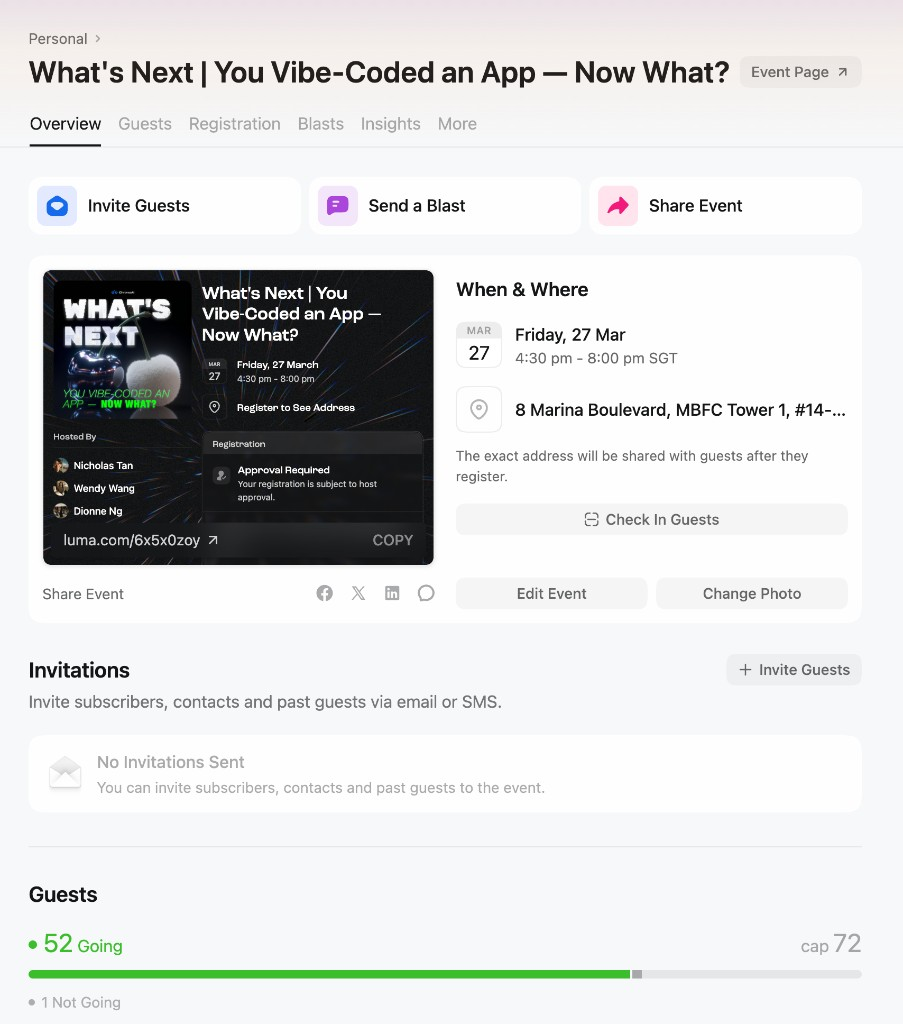
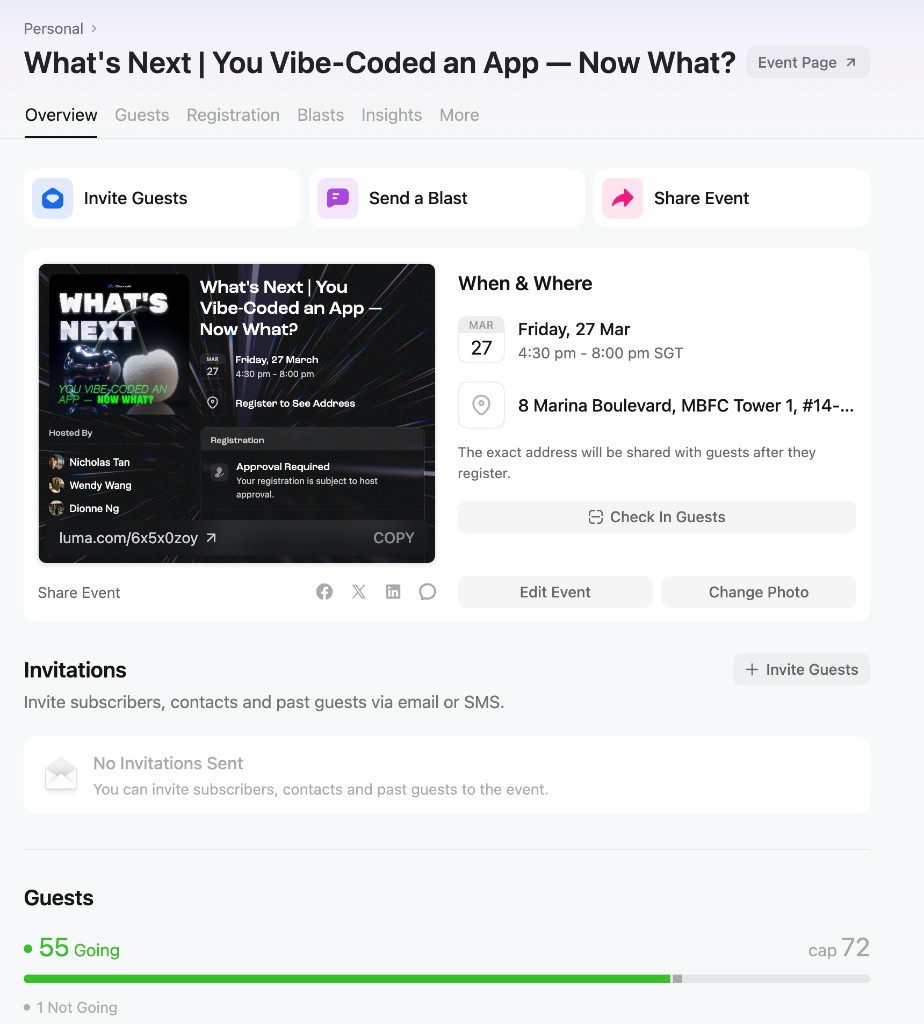
Update Lu.ma screenshot to 55 RSVPs, push to correct repo
Made-with: Cursor

diff --git a/index.html b/index.html
@@ -297,7 +297,7 @@ h3{font-size:clamp(14px,1.5vw,18px);font-weight:700;line-height:1.3;margin-botto
   <div class="pnum">03 / 05</div>
   <div class="inner">
     <div class="fi d1">
-      <div class="badge gold" data-i18n="b3" data-en="52 Registered · Curated Room" data-zh="52位注册者 · 精选阵容">52 Registered · Curated Room</div>
+      <div class="badge gold" data-i18n="b3" data-en="55 Registered · Curated Room" data-zh="55位注册者 · 精选阵容">55 Registered · Curated Room</div>
     </div>
     <h2 class="fi d1" data-i18n="h3" data-en="Who's in the room." data-zh="谁在这个房间里。">Who's in the room.</h2>
     <p class="sub fi d2" data-i18n="s3" data-en="A cross-section of founders, investors, operators, and industry leaders — exactly the room we designed for." data-zh="创始人、投资者、运营者和行业领袖的代表——这正是我们为之设计的阵容。">A cross-section of founders, investors, operators, and industry leaders — exactly the room we designed for.</p>
@@ -371,7 +371,7 @@ h3{font-size:clamp(14px,1.5vw,18px);font-weight:700;line-height:1.3;margin-botto
             <span class="time-label" data-i18n="ts_label" data-en="saved<br>daily" data-zh="每日<br>节省">saved<br>daily</span>
           </div>
           <div style="width:1px;height:36px;background:rgba(255,255,255,.07)"></div>
-          <div style="font-size:12px;color:var(--muted);line-height:1.5" data-i18n="ts_sub" data-en="Time reallocated to personal outreach &amp; speaker sourcing — directly contributing to 52 RSVPs and 5 confirmed demo speakers this week" data-zh="时间重新分配至个人外联与演讲者开发，直接促成本周52个报名和5位确认演讲者">Time reallocated to personal outreach &amp; speaker sourcing — directly contributing to 52 RSVPs and 5 confirmed demo speakers this week</div>
+          <div style="font-size:12px;color:var(--muted);line-height:1.5" data-i18n="ts_sub" data-en="Time reallocated to personal outreach &amp; speaker sourcing — directly contributing to 55 RSVPs and 5 confirmed demo speakers this week" data-zh="时间重新分配至个人外联与演讲者开发，直接促成本周55个报名和5位确认演讲者">Time reallocated to personal outreach &amp; speaker sourcing — directly contributing to 55 RSVPs and 5 confirmed demo speakers this week</div>
         </div>
       </div>
 
@@ -421,7 +421,7 @@ h3{font-size:clamp(14px,1.5vw,18px);font-weight:700;line-height:1.3;margin-botto
         <div class="gc-title" data-i18n="g1t" data-en="Generate 50+ RSVPs, confirm demo speakers &amp; Show &amp; Ask applications" data-zh="获取50+报名，确认演示嘉宾和展示&提问申请">Generate 50+ RSVPs, confirm demo speakers &amp; Show &amp; Ask applications</div>
         <div>
           <div class="gc-section green" data-i18n="hit_label" data-en="✓ Hit" data-zh="✓ 达成">✓ Hit</div>
-          <div class="gc-item"><span class="tick">✓</span><span data-i18n="g1h1" data-en="52 RSVPs confirmed — exceeded 50 target" data-zh="52个报名确认，超过50人目标">52 RSVPs confirmed — exceeded 50 target</span></div>
+          <div class="gc-item"><span class="tick">✓</span><span data-i18n="g1h1" data-en="55 RSVPs confirmed — exceeded 50 target by 10%" data-zh="55个报名确认，超过50人目标10%">55 RSVPs confirmed — exceeded 50 target by 10%</span></div>
           <div class="gc-item"><span class="tick">✓</span><span data-i18n="g1h2" data-en="5 demo speakers confirmed — exceeded 3-speaker target by 67%" data-zh="5位演示嘉宾确认，超过3人目标67%">5 demo speakers confirmed — exceeded 3-speaker target by 67%</span></div>
           <div class="gc-item"><span class="tick">✓</span><span data-i18n="g1h3" data-en="3 Show &amp; Ask applications — open format, no hard cap" data-zh="3个展示&提问申请——开放格式，无硬性上限">3 Show &amp; Ask applications — open format, no hard cap</span></div>
         </div>
@@ -441,10 +441,10 @@ h3{font-size:clamp(14px,1.5vw,18px);font-weight:700;line-height:1.3;margin-botto
           <div class="gc-section green" data-i18n="hit_label2" data-en="✓ Exceeded" data-zh="✓ 超额完成">✓ Exceeded</div>
           <div class="gc-item"><span class="tick">✓</span><span data-i18n="g2h1" data-en="Workflow live — verified execution log confirmed" data-zh="工作流已上线——执行日志已验证">Workflow live — verified execution log confirmed</span></div>
           <div class="gc-item"><span class="tick">✓</span><span data-i18n="g2h2" data-en="1–2 hrs saved daily (exceeded 2 hrs/week target)" data-zh="每日节省1–2小时（超过每周2小时目标）">1–2 hrs saved daily (exceeded 2 hrs/week target)</span></div>
-          <div class="gc-item"><span class="tick">✓</span><span data-i18n="g2h3" data-en="Saved time directly drove 52 RSVPs + 5 demo speakers" data-zh="节省的时间直接推动了52个报名和5位演示嘉宾">Saved time directly drove 52 RSVPs + 5 demo speakers</span></div>
+          <div class="gc-item"><span class="tick">✓</span><span data-i18n="g2h3" data-en="Saved time directly drove 55 RSVPs + 5 demo speakers" data-zh="节省的时间直接推动了55个报名和5位演示嘉宾">Saved time directly drove 55 RSVPs + 5 demo speakers</span></div>
           <div class="gc-item"><span class="tick">✓</span><span data-i18n="g2h4" data-en="Shared Discord team asset — zero daily maintenance" data-zh="共享Discord团队资产——零日常维护">Shared Discord team asset — zero daily maintenance</span></div>
         </div>
-        <div class="gc-verdict vs" data-i18n="g2v" data-en="🌟 Phenomenal — bot called it breakthrough" data-zh="🌟 卓越表现——机器人称之为突破">🌟 Phenomenal — bot called it breakthrough</div>
+        <div class="gc-verdict vs" data-i18n="g2v" data-en="🌟 Phenomenal" data-zh="🌟 卓越表现">🌟 Phenomenal</div>
       </div>
 
       <!-- GOAL 3 -->
